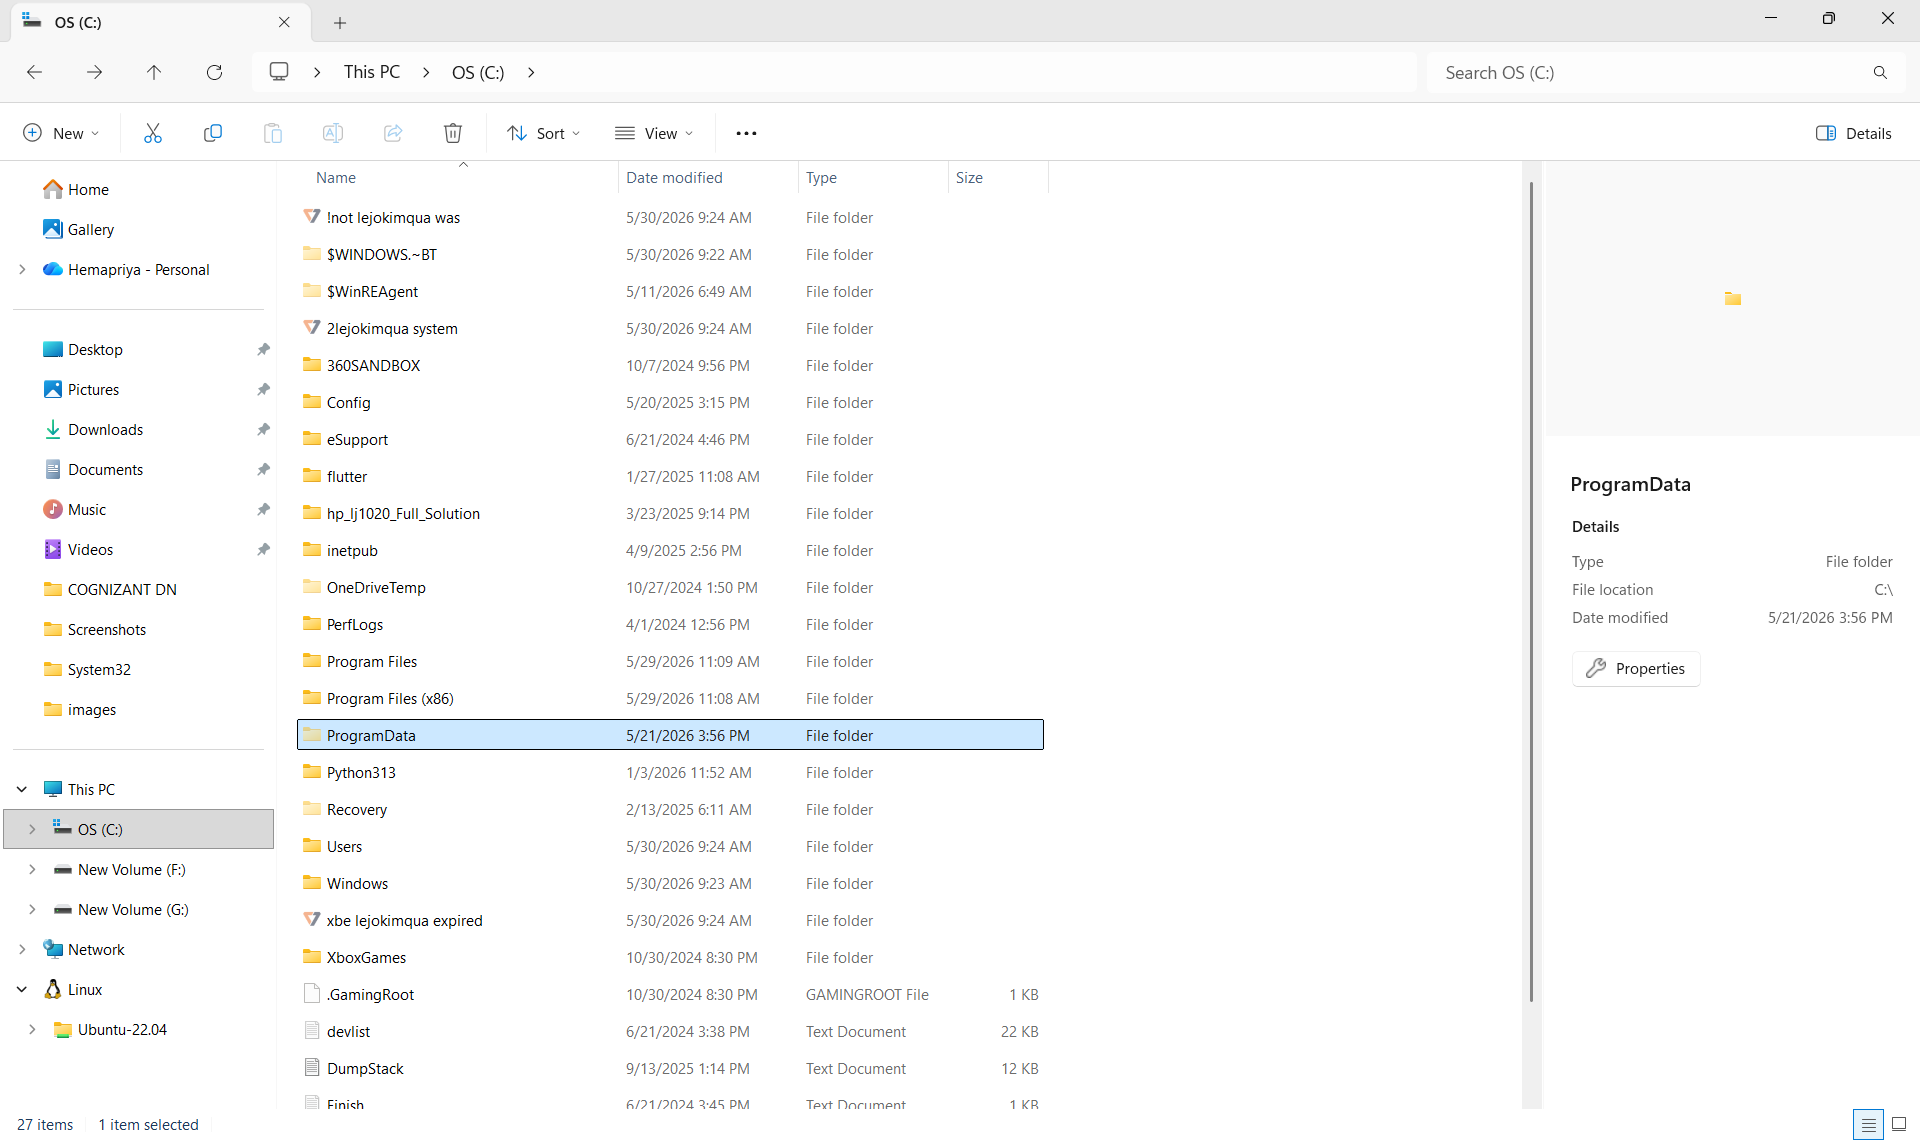
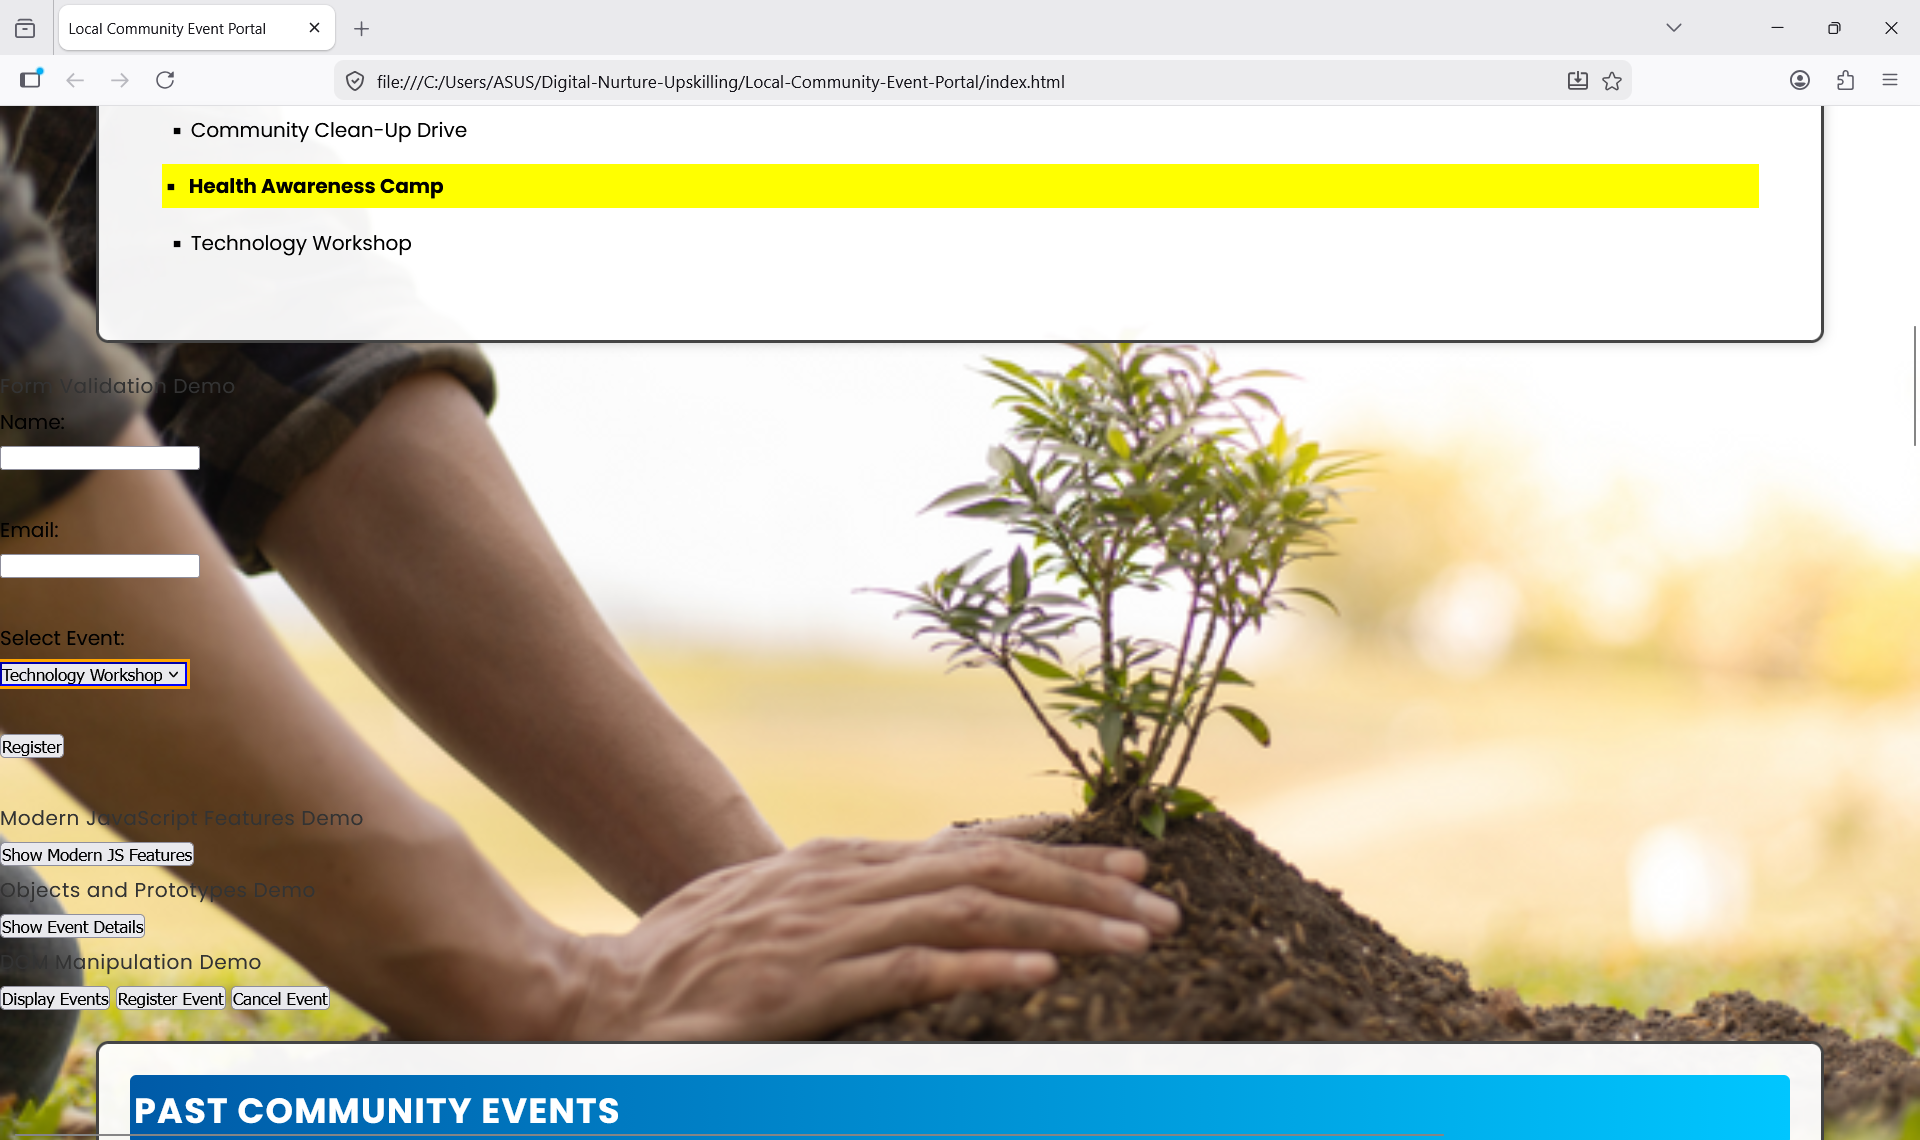
Completed JavaScript Exercise 13 - Debugging and Testing

diff --git a/Local-Community-Event-Portal/main.js b/Local-Community-Event-Portal/main.js
@@ -1108,7 +1108,15 @@ document
 // AJAX & Fetch API
 // =====================================
 
+// =====================================
+// Debugging and Testing
+// =====================================
+
 function submitRegistration() {
+
+    console.log(
+        "Registration process started"
+    );
 
     const registrationData = {
 
@@ -1120,7 +1128,10 @@ function submitRegistration() {
 
     };
 
-    // Show Loading Message
+    console.log(
+        "Registration Data:",
+        registrationData
+    );
 
     document.getElementById(
         "ajaxStatus"
@@ -1128,9 +1139,11 @@ function submitRegistration() {
 
     "<h4>Sending Registration...</h4>";
 
-    // Simulate Delay
-
     setTimeout(() => {
+
+        console.log(
+            "Sending Fetch Request..."
+        );
 
         fetch(
             "https://jsonplaceholder.typicode.com/posts",
@@ -1156,6 +1169,11 @@ function submitRegistration() {
 
         .then(response => {
 
+            console.log(
+                "Response Received:",
+                response
+            );
+
             if(!response.ok) {
 
                 throw new Error(
@@ -1169,46 +1187,42 @@ function submitRegistration() {
 
         .then(data => {
 
+            console.log(
+                "Response Data:",
+                data
+            );
+
             document.getElementById(
                 "ajaxStatus"
             ).innerHTML =
 
             `<h4 style="color:green;">
-
                 Registration Successful!
-
              </h4>
 
              <p>
-
                 Registration ID:
                 ${data.id}
-
              </p>`;
-
-            console.log(
-                "Success:",
-                data
-            );
 
         })
 
         .catch(error => {
+
+            console.error(
+                "Error:",
+                error
+            );
 
             document.getElementById(
                 "ajaxStatus"
             ).innerHTML =
 
             `<h4 style="color:red;">
-
                 Registration Failed
-
              </h4>`;
-
-            console.error(error);
-
         });
 
-    }, 2000); // 2 Second Delay
+    }, 2000);
 
 }